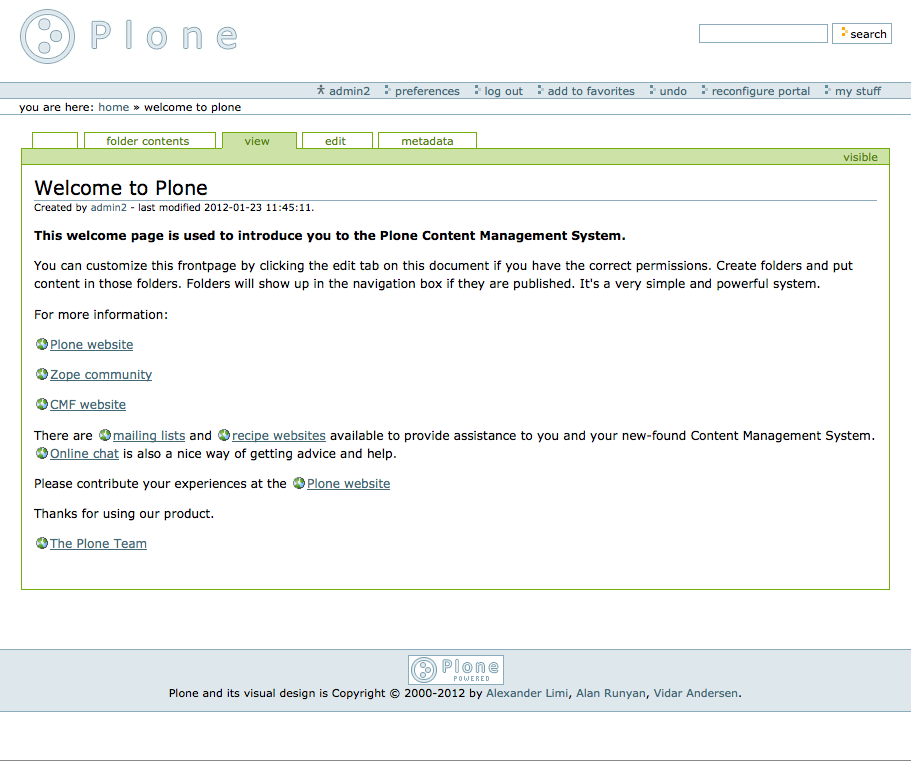
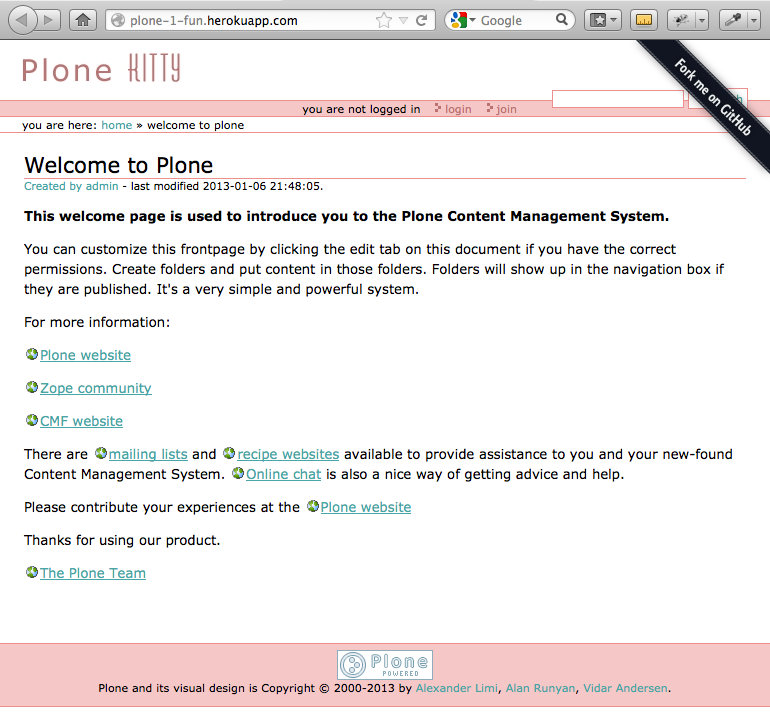
Clean up

diff --git a/README.rst b/README.rst
@@ -1,7 +1,9 @@
 Introduction
 ============
 
-Feeling nostalgic for the early 2000s? Take some time out of your day to have some fun with Plone 1.
+Feeling nostalgic for the early 2000s? Take some time out of your day to run Plone 1!
+
+.. image:: https://github.com/aclark4life/plone_1_fun/raw/master/screenshot.png
 
 Installation
 ------------
@@ -12,7 +14,7 @@ Follow these steps::
     $ bin/pip install zc.buildout
     $ bin/buildout init
 
-Edit `buildout.cfg` to look like this:
+Edit `buildout.cfg` to look like this::
 
     [buildout]
     extends = http://pythonpackages.com/buildout/plone/1.1.x-dev
@@ -22,9 +24,7 @@ Then::
     $ bin/buildout
     $ bin/supervisord
 
-Usage
------
+Known issues
+------------
 
-Login as euser and reset admin's password. Logout and login as admin and create a Plone site. It will produce a traceback, at which point go to the ZMI and manually add a CMF ActionsIcon tool.
-
-.. image:: https://github.com/aclark4life/plone_1_fun/raw/master/screenshot.png
+- Creating a Plone Site in the ZMI will produce a traceback. To fix this, go to the ZMI and add a CMF ActionsIcon tool.
